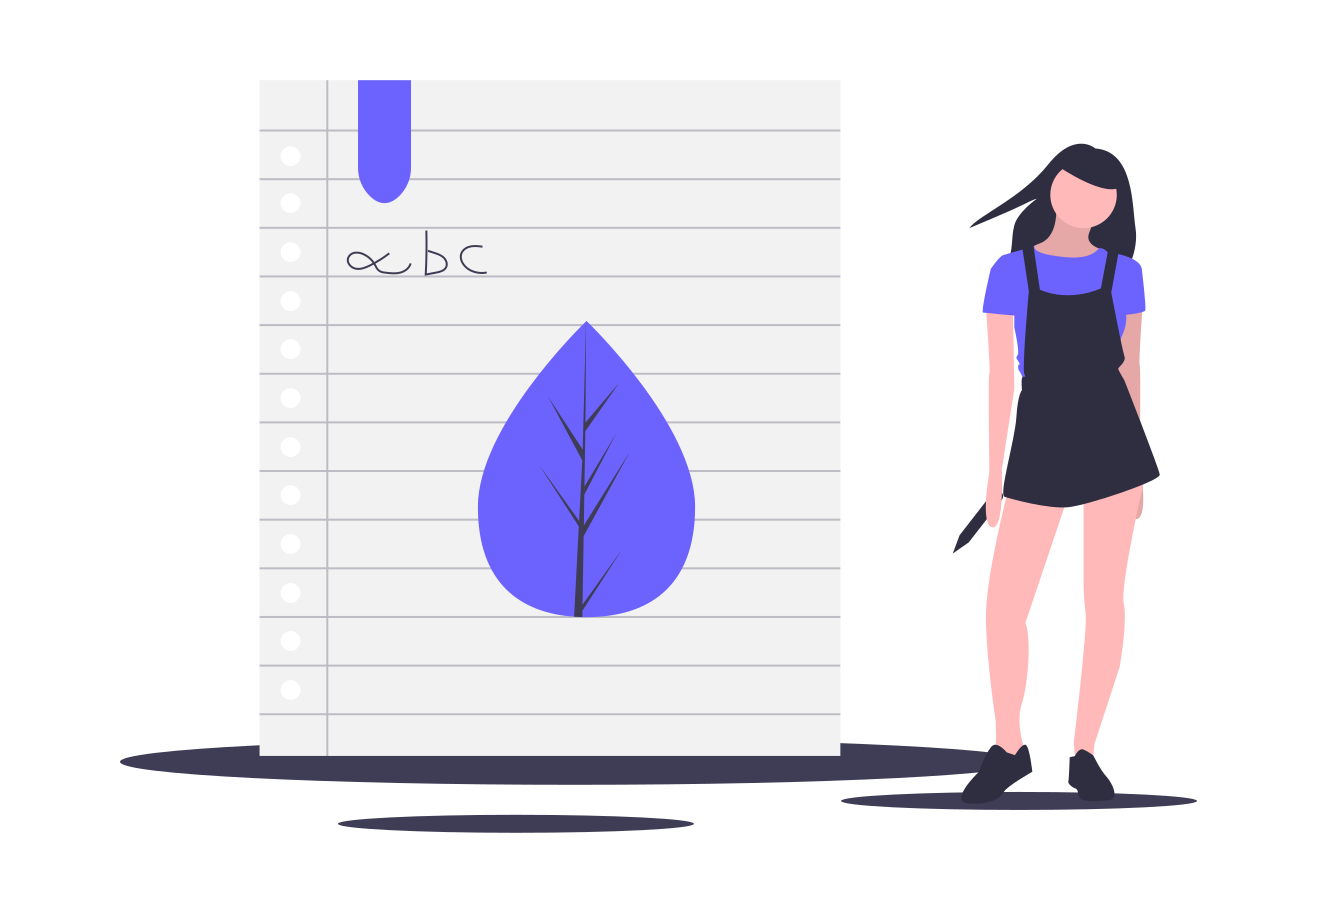
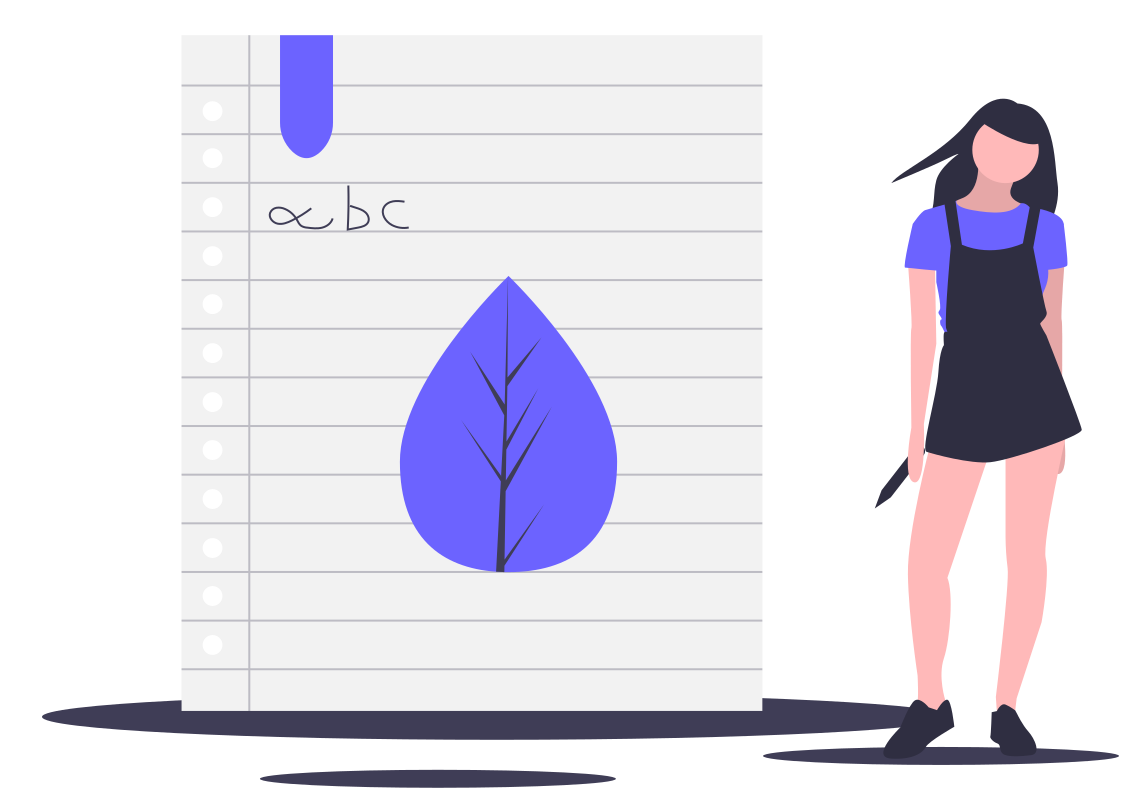
design: adjust Home Description

Changed region(s): [[0.0307, 0.125, 0.9816, 1.0], [0.184, 0.0312, 0.6442, 0.3125]]

diff --git a/src/components/templates/Layout.tsx b/src/components/templates/Layout.tsx
@@ -4,26 +4,17 @@ import Head from 'next/head';
 import Header from 'src/components/organisms/Layout/Header'
 import { LayoutType } from 'src/types';
 
-export const Layout = ({children, title = 'Reached'}: LayoutType): React.ReactElement=> {
+export const Layout = ({children}: LayoutType): React.ReactElement=> {
   return (
     <div className = 'flex flex-col justify-center items-center min-h-screen font-mono text-sm text-gray-600 bg-white'>
       <Head>
-        <title>{title}</title>
+        <title>Reached~教員になりたい人を応援するサイト~</title>
       </Head>
       <Header />
-      <main className='flex flex-col flex-1 mx-32 mt-24 '>
+      <main className='flex flex-col flex-1 mx-32 mt-16 '>
         {children}
       </main>
       <footer className='flex justify-center items-start w-full h-12 border-t'>
-        <a
-          className='flex items-center'
-          href='https://vercel.com?utm_source=create-next-app&utm_medium=default-template&utm_campaign=create-next-app'
-          target='_blank'
-          rel='noopener noreferrer'
-        >
-        Powered by{' '}
-        <img src='/vercel.svg' alt='Vercel Logo' width={72} height={16} />
-        </a>
       </footer>
     </div>
   )

diff --git a/src/pages/index.tsx b/src/pages/index.tsx
@@ -8,10 +8,10 @@ import { TopDescription } from 'src/assets/DescriptionData';
 const Home: NextPage = () => {
   return (
     <Layout title='Home'>
-      <div className='justify-center items-center'>
+      <div className=''>
         <div className='flex flex-row justify-between'>
           <Description title={TopDescription.title} text={TopDescription.text} />
-          <img src='/Study.png' alt='study' width='40%'/>
+          <img src='/Study.png' alt='study' width='60%' />
         </div>
       </div>
     </Layout>

diff --git a/src/components/atoms/Description.tsx b/src/components/atoms/Description.tsx
@@ -7,9 +7,9 @@ type Props = {
 
 export const Description = (props: Props): JSX.Element => {
   return (
-    <div className='flex flex-col justify-center items-start ml-10 w-auto'>
-      <div className='text-5xl font-bold'>{props.title}</div>
-      <div className='text-2xl'>{props.text}</div>
+    <div className='flex flex-col items-start mt-16 ml-8 w-2/5'>
+      <h1 className='text-6xl font-bold'>{props.title}</h1>
+      <h2 className='my-8 text-2xl'>{props.text}</h2>
     </div>
   )
 }
